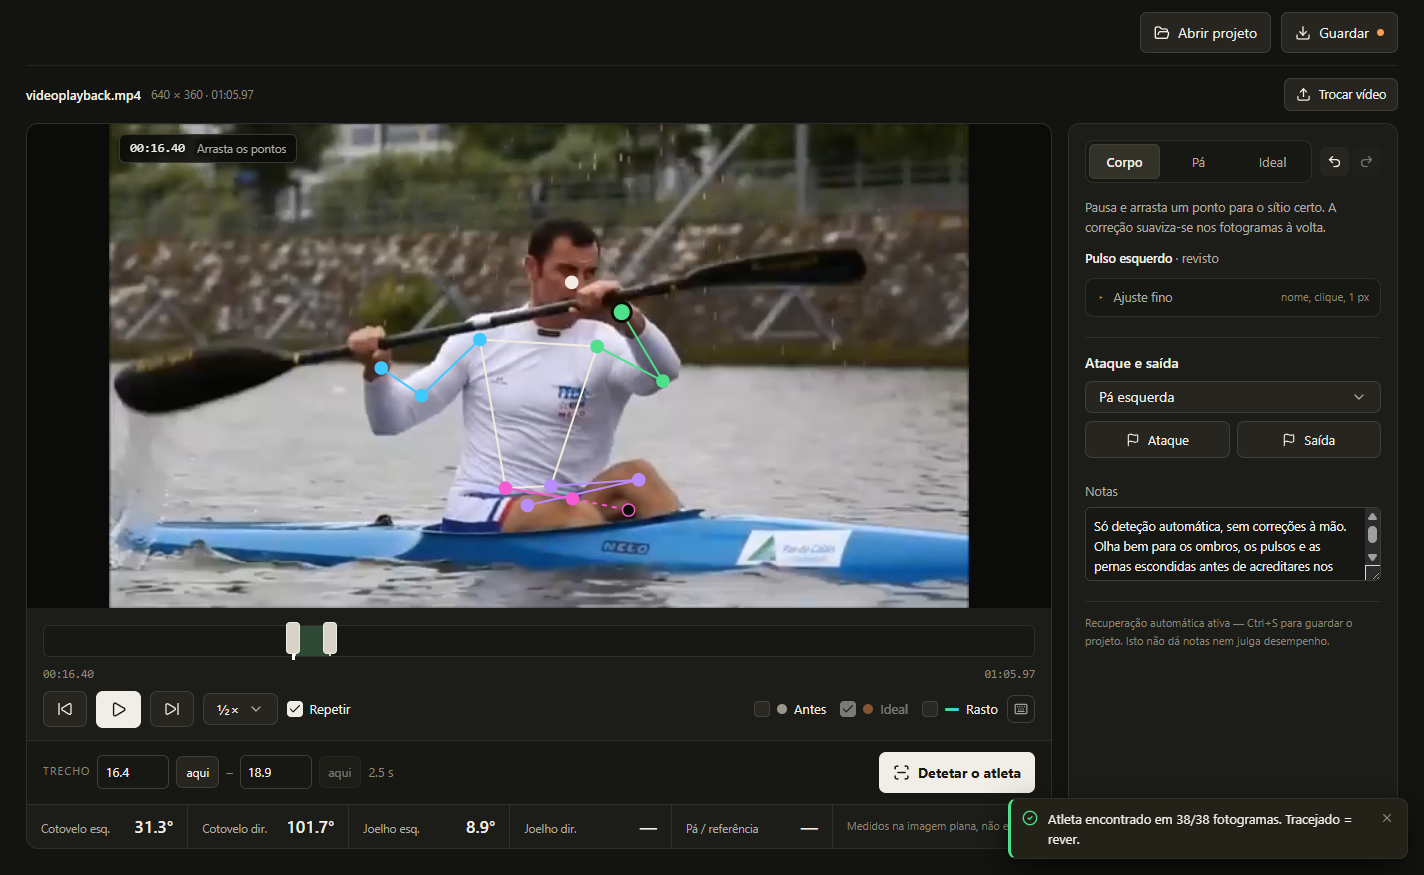
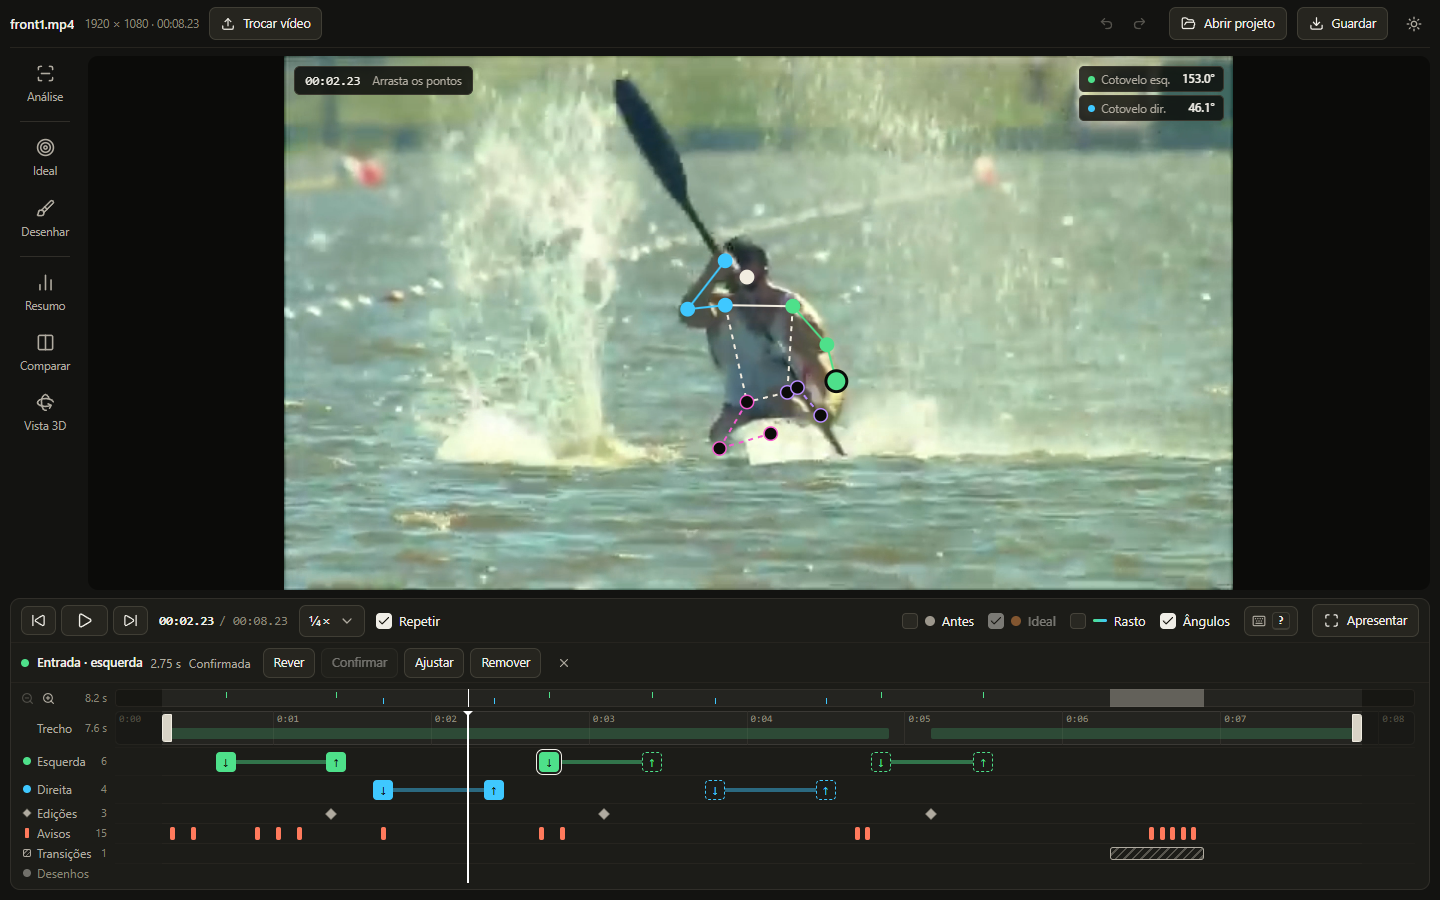
README: describe the Editor layout, drawing and cut detection
New screenshots of the editor, drawing over the video and Comparar.
The paddle-annotation screenshot is gone with the paddle tool.

diff --git a/README.md b/README.md
@@ -1,39 +1,61 @@
 # Stroke
 
-Stroke is a local kayak technique studio for reviewing sprint footage. It tracks an athlete, overlays a pose on the video, and provides tools for correcting joints, annotating the paddle, marking stroke events, and sketching an ideal movement.
+Stroke is a local kayak technique studio for reviewing sprint footage. It tracks an athlete, overlays a pose on the video, and gives the coach a video-editor-style workspace for correcting joints, marking strokes, drawing over the picture, and sketching an ideal movement.
 
-The app is currently a **desktop beta (v0.2.0)**, with build targets for Windows x64 and Apple Silicon Macs (M1 and newer). Analysis and project data stay on the computer; no account or cloud upload is required.
+The app is currently a **desktop beta (v0.2.1)**, with build targets for Windows x64 and Apple Silicon Macs (M1 and newer). Analysis and project data stay on the computer; no account or cloud upload is required.
 
-![Stroke body analysis](docs/screenshots/body-analysis.png)
+![Stroke editor: video, tool rail and timeline dock](docs/screenshots/body-analysis.png)
 
 ## Current features
 
-- Automatic pose tracking with progress and cancellation
-- Experimental **Vista 3D**: synchronized, rotatable upper-body skeleton with front, side, and top views; dashed bones and hollow joints show reduced visibility.
-- Optional detailed analysis (Heavy model, up to 30 fps)
-- Optional fixed athlete region, drawn on the video and saved with the project
-- Slow playback, frame stepping, looping, and wrist trails
-- Editable joint positions with local interpolation and undo/redo
-- Manual paddle and reference-point annotation
-- Catch and exit markers for either blade
-- Frame-by-frame marker adjustment, side changes, ignore/restore, and undo
-- Timing summary from confirmed markers: cadence and mean left/right time in water
-- Stroke comparisons: individual timing, left/right averages, and stroke replay
-- 2D elbow, knee, and paddle/reference angles
-- An editable ideal-motion overlay for visual comparison
-- Portable, versioned `.stroke.json` projects
-- Native Windows file dialogs, crash recovery, and remembered video locations
-- Light and dark themes, following the system by default and switchable from the header (**Tema claro** / **Tema escuro**)
+**Editor layout**
 
-![Stroke paddle annotation workspace](docs/screenshots/paddle-annotation.png)
+- The video is always the largest thing on screen and the page never scrolls. A slim top bar, a tool rail on the left (**Análise**, **Ideal**, **Desenhar**, **Resumo**, **Comparar**, **Vista 3D**) and a collapsible inspector on the right.
+- A timeline dock with one shared time axis and fixed lanes: **Trecho** (draggable grips), **Esquerda** and **Direita** (entries, exits and time in the water), **Edições**, **Avisos**, **Transições** and **Desenhos**.
+- A whole-clip map above the lanes shows the trecho, cuts, marks and playhead. Drag its window to pan; zoom with the buttons, **+**/**−** or the mouse wheel (Shift+wheel pans). Analysed clips longer than 30 s open on a 20 s window.
+- **Apresentar** (**F**) leaves only the video and transport, for showing the athlete. **?** lists every shortcut.
 
-The interface is in European Portuguese. Low-confidence joints use hollow points and dashed bones so uncertain tracking remains visible.
+**Analysis**
+
+- Automatic pose tracking with progress and cancellation, an optional detailed mode (Heavy model, up to 30 fps) and an optional fixed athlete region saved with the project
+- Camera cuts are detected and become transitions: tracking restarts after each cut, a cut next to a transition you drew extends it, and cuts you remove stay removed when you analyse again
+- Editable joint positions with local interpolation and undo/redo; low-confidence joints use hollow points and dashed bones
+- Experimental **Vista 3D**: synchronized, rotatable upper-body skeleton with front, side, and top views
+
+**Marking strokes**
+
+- One-click entry and exit marks: keys **1**–**4** mark left/right entry/exit, as do the buttons above the lanes
+- Drag a mark along its lane to move it, or step it by single frames; **Delete**/**Backspace** removes the chosen mark or transition. Marks never land inside a transition
+- Confirm, replay in slow motion, change side, ignore/restore, all undoable
+- **Resumo**: cadence and mean left/right time in the water from confirmed marks
+- **Comparar**: per-stroke timing, left/right averages and stroke replay, grouped by camera shot when the clip has cuts. Replaying a stroke restores the previous speed afterwards
+
+**Drawing over the video**
+
+- **Desenhar** (**D**) opens a telestrator: pen, marker, arrow, line, rectangle, circle, text, angle, plumb line, spotlight, laser and eraser
+- A drawing belongs to one moment (it fades while playing) or to the whole shot (**Plano inteiro**, until the next cut or transition)
+- Lines and angles snapped to joints follow the athlete; **Exportar imagem** saves the current frame as a PNG
+- Drawings are saved in the project
+
+**Everything else**
+
+- Slow playback, frame stepping, looping and wrist trails. The overlay follows the frame actually on screen, and a video that stops decoding is restarted automatically
+- 2D elbow and knee angles, and an editable ideal-motion overlay for visual comparison
+- Portable, versioned `.stroke.json` projects; paddle and reference points from older projects still display
+- Native file dialogs, crash recovery and remembered video locations
+- Light and dark themes, following the system by default and switchable from the header
+
+![Drawing over the video: an angle snapped to the arm, an arrow and a circle](docs/screenshots/drawing.png)
+
+![Comparar: stroke timings beside the video](docs/screenshots/compare.png)
+
+The interface is in European Portuguese.
 
 ## Install and run
 
 The current release is built for Windows x64:
 
-1. Run `release/Stroke-0.2.0-Windows-x64-Setup.exe`.
+1. Run `release/Stroke-0.2.1-Windows-x64-Setup.exe`.
 2. Install Stroke for the current Windows user.
 3. Open **Stroke** from the desktop or Start menu.
 
@@ -45,11 +67,11 @@ GitHub Actions builds and publishes both installers after merges into main. Down
 
 ## Basic workflow
 
-1. Open a video and select a continuous segment of up to 120 seconds.
-2. Choose **Analisar a minha pagaiada** to track the athlete. Analysis does not add stroke markers.
-3. Click an entry/exit marker on the timeline to replay it in slow motion. Use **Confirmar**, **Ajustar**, or **Remover** in the compact toolbar.
-4. Use **Ajustar** to move by individual frames or change the side. The visible **+ Entrada** and **+ Saída** buttons add manual markers.
-5. Use the left toolbar: **Editar** for body/paddle tools and **Resumo** for timing. Detail and athlete-area controls sit beside the main analysis button.
+1. Open a video. In **Análise**, set the trecho (up to 120 seconds) with the grips or **I**/**O**, and optionally the detail level and athlete area.
+2. Choose **Analisar a minha pagaiada** to track the athlete. Analysis finds camera cuts but does not add stroke marks.
+3. Mark entries and exits with **1**–**4** or the buttons above the lanes. Click a mark to replay it in slow motion, then **Confirmar**, **Ajustar** or **Remover**; drag it to move it, **Delete** to remove it.
+4. Drag any joint on the video to correct it. **Ideal** sketches the target pose; **Desenhar** draws over the video for the athlete.
+5. Read the timings in **Resumo** and **Comparar**, and use **Apresentar** to review with the athlete.
 6. Save the session as a `.stroke.json` project with **Guardar** or `Ctrl+S`.
 
 Project files contain analysis and edits, but not the source video. Keep the original footage alongside the project or reconnect it when prompted.
@@ -69,8 +91,8 @@ Current limits:
 
 - Tracking samples at up to 15 fps for responsive CPU analysis.
 - Measurements are 2D image-plane projections, not 3D motion or force estimates.
-- Paddle tracking and entry/exit marking are manual. Existing saved annotations remain supported. See [the review guide](docs/STROKE-REVIEW.md).
-- Occlusion, crossing limbs, clothing, multiple athletes, and camera cuts can reduce accuracy.
+- Entry/exit marking is manual and the paddle is not tracked. Paddle points in older projects still display. See [the review guide](docs/STROKE-REVIEW.md).
+- Occlusion, crossing limbs, clothing and multiple athletes can reduce accuracy. Hard camera cuts are detected, but slow dissolves may need a transition drawn by hand.
 - Video files are limited to 1 GB and analysis segments to 120 seconds.
 - The ideal pose is a free 2D sketch; it does not enforce limb lengths or render a new video.
 - The Windows installer is currently unsigned, with no automatic updater.
@@ -113,7 +135,7 @@ cd ..
 .venv/Scripts/python.exe -m pytest tests -q
 ```
 
-The desktop smoke test covers the real renderer, authenticated local API, native project/video handling, decoding and inference, saving, reopening, and recovery. It can optionally refresh the README screenshots by setting `STROKE_SCREENSHOT_DIR` before running the test.
+The desktop smoke test covers the real renderer, authenticated local API, native project/video handling, decoding and inference, saving, reopening, and recovery. It can optionally save screenshots of the packaged app by setting `STROKE_SCREENSHOT_DIR` before running the test.
 
 ## Repository layout
 
@@ -124,7 +146,7 @@ desktop/   Electron shell and desktop smoke test
 examples/  Sample .stroke.json project
 ```
 
-The core editor is in `app/app/Studio.tsx`, motion and project logic in `app/lib/motion.ts`, and the local analyzer in `backend/main.py`.
+The core editor is in `app/app/Studio.tsx`, the timeline dock in `app/app/Timeline.tsx`, drawing in `app/app/Drawing.tsx` and `app/lib/drawings.ts`, motion and project logic in `app/lib/motion.ts`, and the local analyzer in `backend/main.py`.
 
 ## License
 
